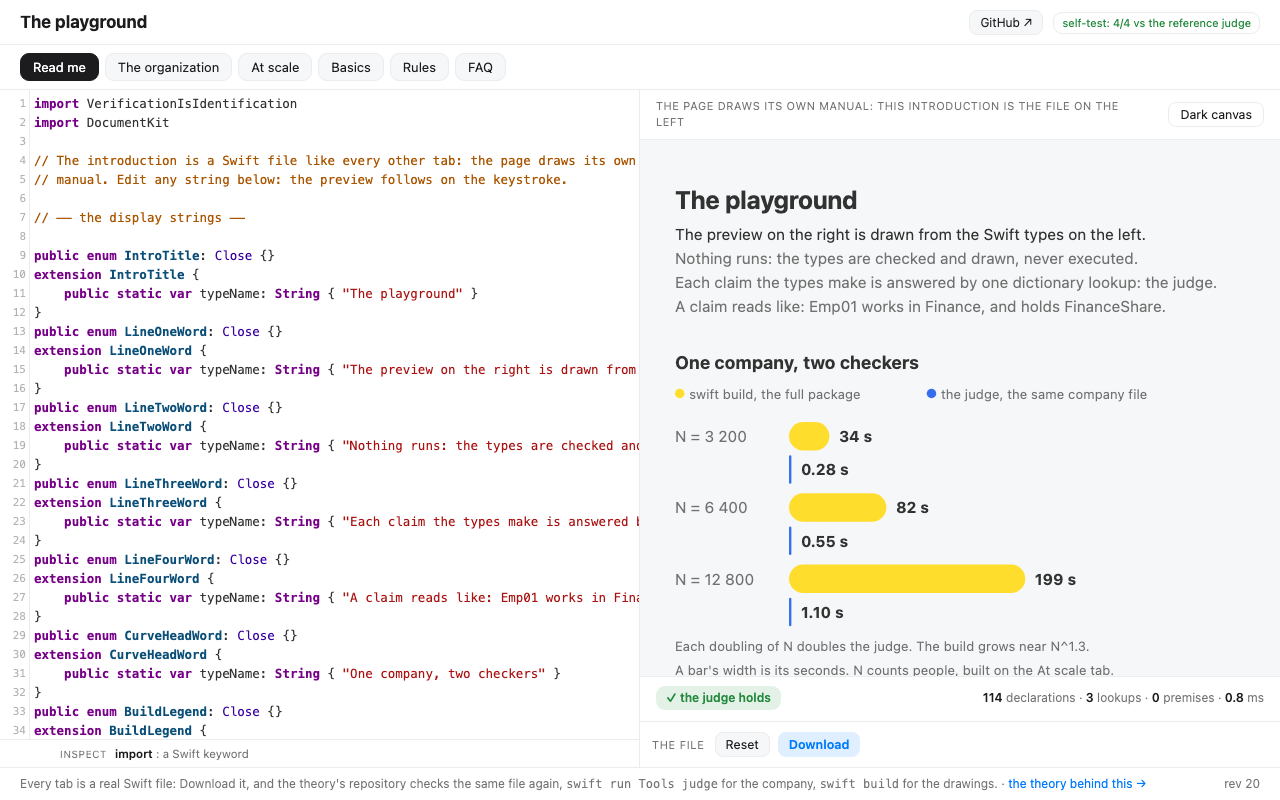
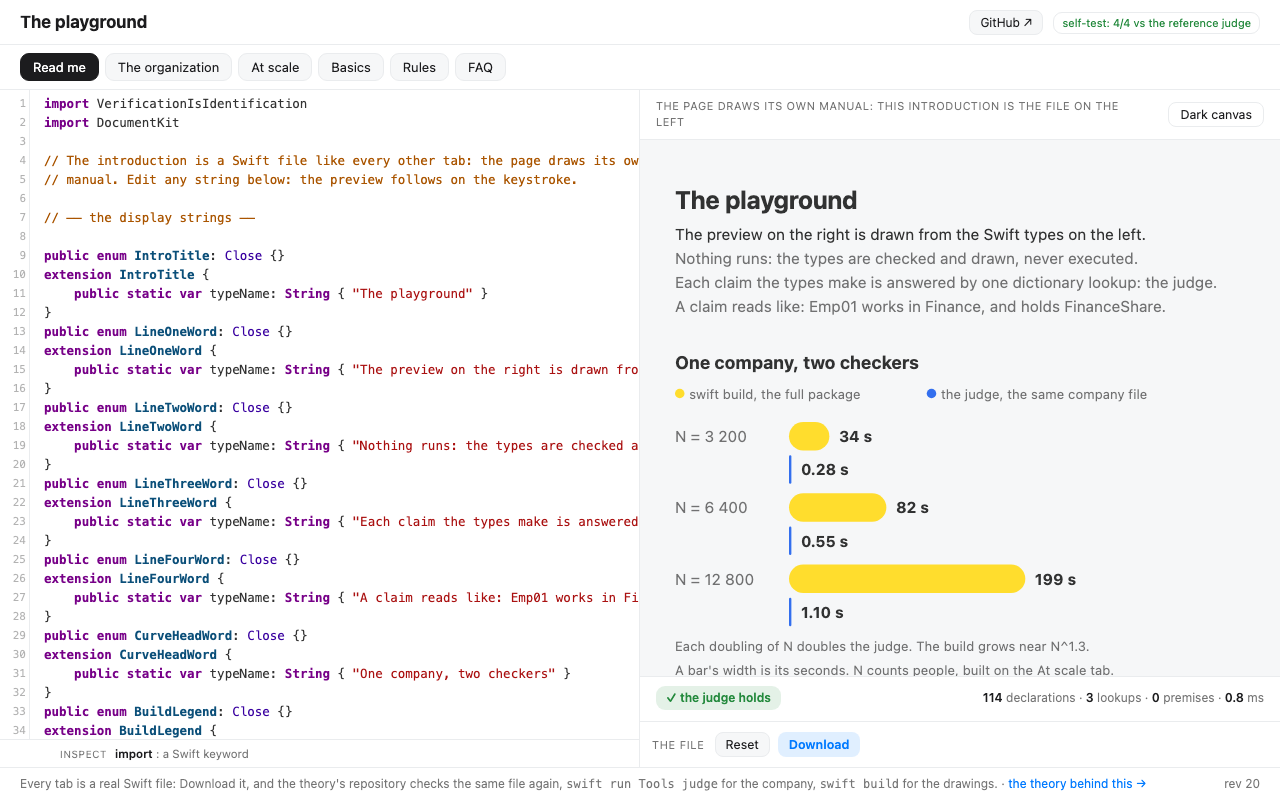
The code steps back from the line numbers: fourteen pixels of air.

diff --git a/index.html b/index.html
@@ -69,6 +69,8 @@
     font: 12.5px/19px ui-monospace, Menlo, monospace;
   }
   .CodeMirror-scroll { padding-bottom: 120px; }
+  /* air between the line numbers and the code */
+  .CodeMirror pre.CodeMirror-line, .CodeMirror pre.CodeMirror-line-like { padding: 0 4px 0 14px; }
   .CodeMirror-gutters { background: var(--paper); border-right: 1px solid var(--line); }
   .CodeMirror-linenumber { color: rgba(0,0,0,0.30); font-size: 11px; }
   .CodeMirror-cursor { border-left: 2px solid var(--ink); }